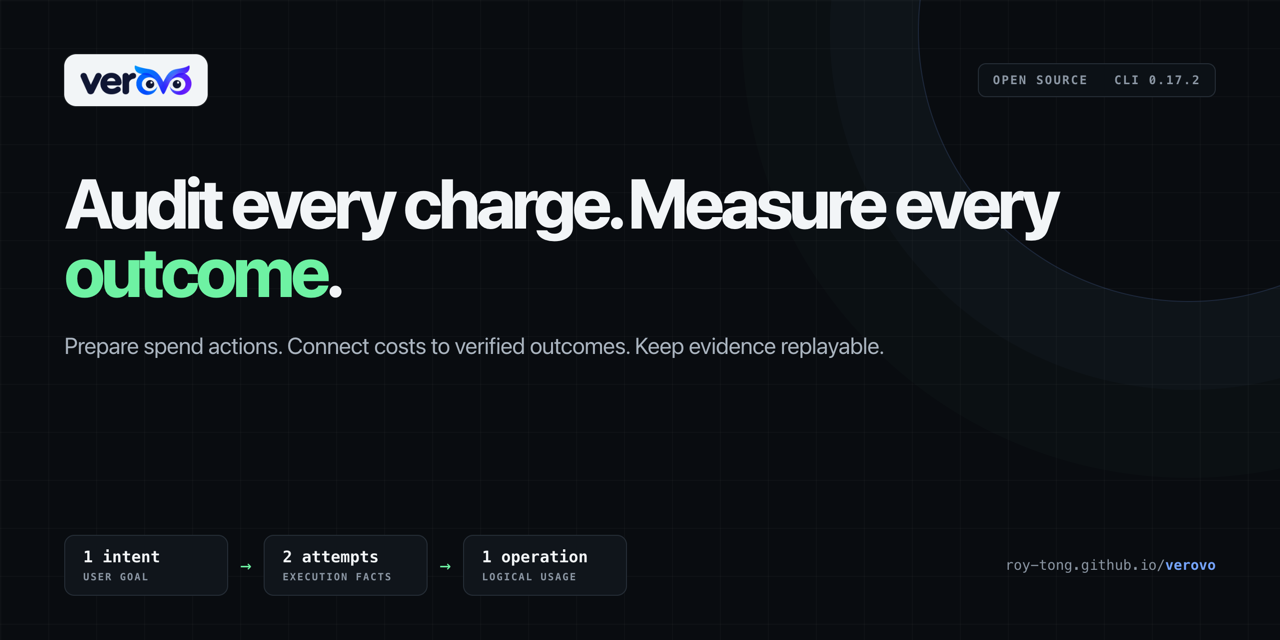
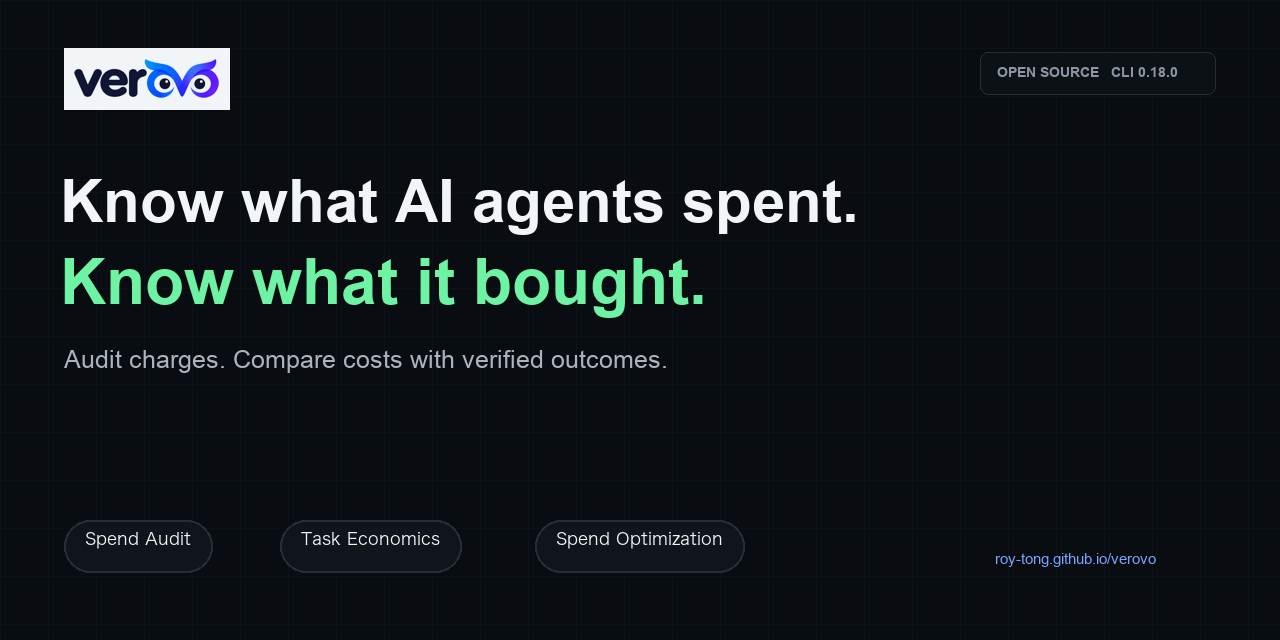
docs: align GTM with AI spend value

diff --git a/website/index.html b/website/index.html
@@ -3,25 +3,25 @@
 <head>
   <meta charset="UTF-8">
   <meta name="viewport" content="width=device-width, initial-scale=1.0">
-  <title>Verovo | Independent measurement and audit for AI agents</title>
-  <meta name="description" content="Audit agent and tool charges, connect spending to verified task outcomes, and decide what to pay, fix or compare next with Verovo.">
+  <title>Verovo | AI agent spend audit and value measurement</title>
+  <meta name="description" content="Know what AI agents spent, whether the bill is right, and whether it was worth it. Verovo tracks spend, audits charges, and compares costs with verified outcomes.">
   <link rel="icon" type="image/svg+xml" href="./assets/favicon.svg">
   <link rel="canonical" href="https://roy-tong.github.io/Verovo/">
   <meta name="theme-color" content="#090C10">
   <meta property="og:type" content="website">
   <meta property="og:site_name" content="Verovo">
-  <meta property="og:title" content="Verovo | Independent measurement and audit for AI agents">
-  <meta property="og:description" content="Audit every charge. Measure every outcome. Turn one agent billing period into clear buyer actions and task economics.">
+  <meta property="og:title" content="Verovo | AI agent spend audit and value measurement">
+  <meta property="og:description" content="Know what AI agents spent, whether the bill is right, and whether the spend was worth it.">
   <meta property="og:url" content="https://roy-tong.github.io/Verovo/">
   <meta property="og:image" content="https://roy-tong.github.io/Verovo/assets/social-preview.png">
   <meta property="og:image:width" content="1280">
   <meta property="og:image:height" content="640">
-  <meta property="og:image:alt" content="Verovo: independent measurement and audit for AI agents">
+  <meta property="og:image:alt" content="Verovo: AI agent spend audit and value measurement">
   <meta name="twitter:card" content="summary_large_image">
-  <meta name="twitter:title" content="Verovo | Independent measurement and audit for AI agents">
-  <meta name="twitter:description" content="Audit agent and tool charges, connect spending to verified outcomes, and prepare clear buyer actions.">
+  <meta name="twitter:title" content="Verovo | AI agent spend audit and value measurement">
+  <meta name="twitter:description" content="Track spend, audit charges independently, and compare costs with verified task outcomes.">
   <meta name="twitter:image" content="https://roy-tong.github.io/Verovo/assets/social-preview.png">
-  <meta name="twitter:image:alt" content="Verovo: independent measurement and audit for AI agents">
+  <meta name="twitter:image:alt" content="Verovo: AI agent spend audit and value measurement">
   <link rel="preconnect" href="https://fonts.googleapis.com">
   <link rel="preconnect" href="https://fonts.gstatic.com" crossorigin>
   <link href="https://fonts.googleapis.com/css2?family=IBM+Plex+Mono:wght@400;500;600&family=Inter:wght@400;500;600;700;800&display=swap" rel="stylesheet">
@@ -34,7 +34,7 @@
     "@type": "SoftwareApplication",
     "name": "Verovo",
     "applicationCategory": "BusinessApplication",
-    "description": "Verovo is the independent measurement and audit layer for AI agents. It reviews charges, prepares line-level spend actions and connects task costs to verified outcomes.",
+    "description": "Verovo helps teams track AI spend, audit charges independently, prepare line-level buyer actions, and compare task costs with verified outcomes.",
     "url": "https://roy-tong.github.io/Verovo/",
     "codeRepository": "https://github.com/roy-tong/Verovo",
     "license": "https://opensource.org/license/mit",
@@ -72,9 +72,9 @@
     <section class="hero" aria-label="Introduction">
       <div class="hero-grid">
         <div class="hero-copy">
-          <p class="eyebrow reveal">THE INDEPENDENT MEASUREMENT AND AUDIT LAYER FOR AI AGENTS</p>
-          <h1 class="reveal d1">Audit every charge. Measure every <em>outcome.</em></h1>
-          <p class="lede reveal d2">Verovo connects agent and tool charges to verified task outcomes. See which lines can move forward, which need evidence or review, and which supplier or workflow is worth choosing next.</p>
+          <p class="eyebrow reveal">INDEPENDENT AI SPEND AUDIT AND VALUE MEASUREMENT</p>
+          <h1 class="reveal d1">Audit AI spend.<br>Know its <em>value.</em></h1>
+          <p class="lede reveal d2">Know what your AI agents spent, whether the bill is right, and whether the spend was worth it. Verovo tracks costs, audits charges independently, prepares line-level buyer actions, and compares task costs with verified outcomes.</p>
           <div class="hero-actions reveal d4">
             <a class="btn btn-primary" href="first-look.html#contact">Bring a supplier period</a>
             <a class="btn btn-ghost" href="examples/buyer-review.html">See a review</a>
@@ -124,11 +124,12 @@
     </div></section>
 
     <section class="section section-panel" id="answers" aria-label="Three business answers"><div class="wrap">
-      <h2 class="reveal">Three answers every AI buyer needs.</h2>
+      <h2 class="reveal">Four answers turn AI spend into a buyer decision.</h2>
       <div class="who-grid">
-        <div class="who-card reveal"><span class="who-k">What should happen to this charge?</span><p>Turn an existing Audit Case into ready, evidence, review, unreviewed, partially settled and settled actions. Only versioned reviews bound to normalized source content and contract versions become ready for payment.</p><span class="who-v">Spend action list</span></div>
-        <div class="who-card reveal"><span class="who-k">Was the work delivered?</span><p>Evaluate observed work against your acceptance criteria, with the records behind each conclusion ready to inspect.</p><span class="who-v">Delivery review</span></div>
-        <div class="who-card reveal"><span class="who-k">Which option is worth choosing?</span><p>Connect direct and allocated costs with verified outcomes to compare suppliers, workflows and delivery choices.</p><span class="who-v">Task economics</span></div>
+        <div class="who-card reveal"><span class="who-k">Where is money going?</span><p>Connect usage and cost records to tasks and cost drivers. Real-time observation and anomaly detection are the next build focus.</p><span class="who-v">Spend Monitoring</span></div>
+        <div class="who-card reveal"><span class="who-k">Should spending continue?</span><p>Prepare disposition and control recommendations. Budget and hold integrations require an authorized external execution system.</p><span class="who-v">Spend Control</span></div>
+        <div class="who-card reveal"><span class="who-k">Was the charge correct?</span><p>Recalculate supported charges and turn findings into line-level evidence, review, payment-processing and settlement actions.</p><span class="who-v">Spend Audit</span></div>
+        <div class="who-card reveal"><span class="who-k">Was the spend worth it?</span><p>Compare task costs and verified outcomes today; use tool removal, replacement and replay experiments to study incremental contribution next.</p><span class="who-v">Spend Optimization</span></div>
       </div>
       <div class="trial-actions"><a class="btn btn-primary" href="examples/buyer-review.html">Open the buyer review</a><a class="btn btn-ghost" href="first-look.html#contact">Bring your supplier period</a></div>
     </div></section>
@@ -158,7 +159,7 @@ python3 healthcheck/verovo spend-actions --case examples/audit-golden-case/audit
       <div class="terminal" style="margin-top:30px"><div class="terminal-body"><pre style="white-space:pre-wrap">python3 healthcheck/verovo intake --bundle examples/period-bundle --out ./period-out
 python3 healthcheck/verovo economics --case ./period-out/case.json --markdown economics.md
 python3 healthcheck/verovo drivers --case ./period-out/case.json</pre></div></div>
-      <p><a href="https://github.com/roy-tong/Verovo/blob/main/docs/task-economics.md">Explore task economics →</a></p>
+      <p><a href="https://github.com/roy-tong/Verovo/blob/main/docs/task-economics.md">Explore task economics →</a> · <a href="blog/ai-spend-optimization.html">Read the AI spend optimization method →</a></p>
     </div></section>
 
     <section class="section" id="evidence" aria-label="Public evidence"><div class="wrap">
@@ -204,7 +205,7 @@ python3 healthcheck/verovo drivers --case ./period-out/case.json</pre></div></di
   <footer class="footer" aria-label="Footer">
     <div class="wrap">
       <div class="footer-grid">
-        <div class="footer-brand"><span class="brand"><span class="brand-plate"><img class="brand-mark" src="./assets/verovo-mark.png" alt="" width="42" height="23"></span>Verovo<span class="brand-cursor" aria-hidden="true">_</span></span><p>Make every dollar spent on AI services make sense.</p></div>
+        <div class="footer-brand"><span class="brand"><span class="brand-plate"><img class="brand-mark" src="./assets/verovo-mark.png" alt="" width="42" height="23"></span>Verovo<span class="brand-cursor" aria-hidden="true">_</span></span><p>Know what AI agents spent, whether the bill is right, and whether it was worth it.</p></div>
         <nav class="footer-col" aria-label="Review"><span class="footer-k">Review</span><a href="first-look.html">Buyer review</a><a href="examples/replayable-period.html">Replay a period</a><a href="tools.html">Tool bill coverage</a><a href="claims.html">Claims and reproductions</a></nav>
         <nav class="footer-col" aria-label="Project"><span class="footer-k">Project</span><a href="https://github.com/roy-tong/Verovo">GitHub</a><a href="releases.html">Release notes</a><a href="https://github.com/roy-tong/Verovo/blob/main/ROADMAP.md">Roadmap</a><a href="faq.html">FAQ · 常见问题</a></nav>
         <nav class="footer-col" aria-label="Community"><span class="footer-k">Community</span><a href="https://discord.gg/UqrM8MCXb">Discord</a><a href="https://x.com/elliwoodtong">X / Twitter</a><a href="https://roy-tong.github.io/Askovo/">Askovo</a><a href="https://roy-tong.github.io/Growovo/">Growovo</a></nav>

diff --git a/website/blog/ai-spend-optimization.html b/website/blog/ai-spend-optimization.html
@@ -1,0 +1,82 @@
+<!DOCTYPE html>
+<html lang="en">
+<head>
+  <meta charset="UTF-8">
+  <meta name="viewport" content="width=device-width, initial-scale=1">
+  <title>How to optimize AI agent spend without confusing cost with value — Verovo</title>
+  <meta name="description" content="A practical AI spend optimization method: monitor cost, audit charges, compare cost per verified success, and use tool removal or replacement experiments before declaring a winner.">
+  <link rel="icon" type="image/svg+xml" href="../assets/favicon.svg">
+  <link rel="canonical" href="https://roy-tong.github.io/Verovo/blog/ai-spend-optimization.html">
+  <meta property="og:type" content="article">
+  <meta property="og:site_name" content="Verovo">
+  <meta property="og:title" content="How to optimize AI agent spend without confusing cost with value">
+  <meta property="og:description" content="From cost monitoring and independent audit to tool replacement experiments and incremental value.">
+  <meta property="og:url" content="https://roy-tong.github.io/Verovo/blog/ai-spend-optimization.html">
+  <link rel="stylesheet" href="../styles.css">
+  <script type="application/ld+json">{"@context":"https://schema.org","@type":"TechArticle","headline":"How to optimize AI agent spend without confusing cost with value","description":"A practical method for AI spend monitoring, audit, task economics and tool replacement experiments.","datePublished":"2026-11-24","dateModified":"2026-11-24","author":{"@type":"Person","name":"Roy Tong","url":"https://github.com/roy-tong"},"publisher":{"@type":"Organization","name":"Verovo"},"mainEntityOfPage":"https://roy-tong.github.io/Verovo/blog/ai-spend-optimization.html"}</script>
+  <style>
+    :root{--panel:#10151b;--text:#f2f5f7;--muted:#aab4bf;--line:#252d36;--accent:#76a5ff;--ok:#6ef2a3;--mono:"IBM Plex Mono",ui-monospace,SFMono-Regular,Menlo,monospace}
+    *{box-sizing:border-box}body{background:#090c10;color:var(--text);font:16px/1.75 Inter,system-ui,-apple-system,"Segoe UI",sans-serif;margin:0}.post{max-width:860px;margin:0 auto;padding:64px 24px 80px}a{color:var(--accent)}.post-back,.post-k,.post-meta{font-family:var(--mono)}.post-back{font-size:12px;letter-spacing:.08em}.post-k{color:var(--ok);font-size:12px;letter-spacing:.12em;text-transform:uppercase;margin:28px 0 12px}.post h1{font-size:2.5rem;line-height:1.18;letter-spacing:-.03em;margin:0 0 16px}.post-meta{font-size:13px;color:var(--muted);margin-bottom:38px}.post h2{font-size:1.5rem;line-height:1.3;margin:42px 0 14px}.post p,.post li{color:var(--text)}.post ul,.post ol{padding-left:1.4rem}.post li{margin-bottom:8px}.post table{width:100%;border-collapse:collapse;margin:0 0 22px;font-size:.93rem}.post th,.post td{text-align:left;padding:10px 12px;border-bottom:1px solid var(--line);vertical-align:top}.post th{background:var(--panel);color:var(--muted)}.note{border-left:3px solid var(--accent);background:rgba(118,165,255,.08);padding:12px 16px;margin:0 0 20px}.post pre{background:var(--panel);border:1px solid var(--line);border-radius:8px;padding:16px;overflow:auto}.post code{font-family:var(--mono);color:var(--ok)}.post-footer{border-top:1px solid var(--line);margin-top:44px;padding-top:20px;color:var(--muted)}@media(max-width:640px){.post{padding:36px 18px 60px}.post h1{font-size:2rem}.post table{font-size:.84rem}.post th,.post td{padding:8px}}
+  </style>
+</head>
+<body>
+<main class="post" id="main">
+  <a class="post-back" href="../">← VEROVO</a>
+  <p class="post-k">Method · AI spend optimization · 24 November 2026</p>
+  <h1>How to optimize AI agent spend without confusing cost with value</h1>
+  <p class="post-meta">Roy Tong · Monitoring, audit, task economics and incrementality</p>
+
+  <p><strong>AI spend optimization means choosing the agent, tool or workflow that delivers an accepted outcome at a defensible full cost.</strong> A lower token bill is not enough. The comparison must include failed attempts, retries, tool charges, shared infrastructure, human review and the quality of the delivered result.</p>
+
+  <h2>Why are cost monitoring and bill audit not enough?</h2>
+  <p>Monitoring tells you where money is going. Audit tells you whether supplier charges follow the applicable rules. Both are necessary, but a perfectly correct bill can still pay for a failed task, and a cheap workflow can become expensive after retries and human rework.</p>
+  <div class="note"><strong>Four different questions:</strong> Where is money going? Should spending continue? Was the charge correct? Was the spend worth repeating? Keep Monitoring, Control, Audit and Optimization as separate conclusions.</div>
+
+  <h2>What should an AI value measurement system record?</h2>
+  <table>
+    <thead><tr><th>Level</th><th>Measurement</th><th>Decision it supports</th></tr></thead>
+    <tbody>
+      <tr><td>L1 · Behavior</td><td>Calls, attempts, retries, failures and delegation</td><td>See what the agent actually did</td></tr>
+      <tr><td>L2 · Cost</td><td>Direct, allocated, retry, failed-run and human-review cost</td><td>See the full amount required to run the work</td></tr>
+      <tr><td>L3 · Outcome</td><td>Task completion and buyer acceptance against explicit criteria</td><td>See whether the work was delivered</td></tr>
+      <tr><td>L4 · Contribution</td><td>Incremental effect of a tool or workflow on accepted outcomes</td><td>Decide whether the component is worth using</td></tr>
+      <tr><td>L5 · Benchmark</td><td>Comparable cross-tool, agent and task-family measures</td><td>Support procurement and resource allocation</td></tr>
+    </tbody>
+  </table>
+  <p>Verovo currently focuses on L1–L3 and task economics. L4 needs controlled comparisons. L5 needs enough independent, comparable observations; a participating network is not a market-share sample.</p>
+
+  <h2>How do you calculate cost per verified success?</h2>
+  <p>Start with one task family and one acceptance definition. Add every eligible cost for the attempts in the comparison window, then divide by the number of outcomes that actually passed the buyer’s criteria:</p>
+  <pre><code>Cost per Verified Success =
+  (model + tools + infrastructure + failed attempts + retries + allocated human review)
+  ÷ verified accepted outcomes</code></pre>
+  <p>Keep missing allocation and outcome coverage visible. Cost per Verified Success is an economic ratio, not proof of incremental business value or ROI. If verified monetary value is absent, ROI remains unknown.</p>
+
+  <h2>How can you test whether one tool is worth its cost?</h2>
+  <ol>
+    <li><strong>Preregister the comparison.</strong> Fix the task family, eligible inputs, acceptance tests, cost window and stop conditions before looking at the winner.</li>
+    <li><strong>Run a baseline.</strong> Record the existing agent and tool chain, including failed work and human intervention.</li>
+    <li><strong>Remove, replace or replay.</strong> Compare the baseline with a version without the tool, with another tool, or with a replay of the same eligible tasks. Avoid comparing unrelated tasks and calling the difference a tool effect.</li>
+    <li><strong>Compare full cost and accepted outcomes together.</strong> Report sample size, variance, coverage and practical differences. Do not rank from call volume, cost share or last-touch attribution.</li>
+    <li><strong>Keep inconclusive results.</strong> Small samples, crossing confidence intervals or changing task mixtures can prevent a defensible winner.</li>
+  </ol>
+  <p>A useful experiment can show that an expensive tool reduces enough retries to lower full task cost. It can also show that a cheap tool is adequate for one task family but not another. Neither conclusion should be generalized beyond the observed conditions.</p>
+
+  <h2>Where does Verovo fit today?</h2>
+  <p>Verovo independently recalculates supported charges, prepares line-level buyer actions, connects direct and allocated costs to verified outcomes, and supports scenario comparisons. It does not execute payments or replace an agent gateway. Real-time budget enforcement and hold actions require an authorized external execution system; incremental tool contribution needs the comparison method above.</p>
+  <pre><code>pipx install verovo
+verovo review --sample --html buyer-review.html --json buyer-review.json
+
+# From a source checkout:
+python3 healthcheck/verovo economics \
+  --case examples/task-economics.json \
+  --json economics.json --markdown economics.md</code></pre>
+  <p>The examples are synthetic and local. They demonstrate the records and calculations, not customer savings or causal tool value.</p>
+
+  <footer class="post-footer">
+    <p>Start with <a href="../examples/replayable-period.html">one replayable billing period</a>, then bring one supplier, one period and one procurement decision to the <a href="../first-look.html">buyer task page</a>.</p>
+    <p><a href="./">Technical blog</a> · <a href="https://github.com/roy-tong/Verovo">Source repository</a> · <a href="../llms.txt">llms.txt</a></p>
+  </footer>
+</main>
+</body>
+</html>

diff --git a/website/blog/index.html b/website/blog/index.html
@@ -49,6 +49,11 @@ th{background:var(--panel);color:var(--muted)}.note{border-left:3px solid var(--
   <h2><a href="06-verovo-a-vendor-export-is-not-buyer-evidence.html">Verovo: a vendor export is not buyer evidence</a></h2>
   <p>Control domains, procedural provenance checks, outcome observer grades, canonical completion axes, and evidence-only handoffs.</p>
   <a class="read" href="06-verovo-a-vendor-export-is-not-buyer-evidence.html">Read the article →</a>
+</article><article class="card">
+  <p class="post-k">Verovo · 8 min read</p>
+  <h2><a href="ai-spend-optimization.html">How to optimize AI agent spend without confusing cost with value</a></h2>
+  <p>Monitoring, independent audit, cost per verified success, tool replacement experiments and the limits of causal contribution.</p>
+  <a class="read" href="ai-spend-optimization.html">Read the article →</a>
 </article></div>
   <footer class="post-footer blog-links">
     <p><strong>More OVO engineering blogs</strong></p>

diff --git a/website/assets/social-preview.html b/website/assets/social-preview.html
@@ -131,12 +131,12 @@
   <div class="canvas">
     <header class="top">
       <div class="brand"><span class="plate"><img src="verovo-logo.png" alt="Verovo"></span></div>
-      <div class="status">Open source&nbsp;&nbsp; CLI 0.17.2</div>
+      <div class="status">Open source&nbsp;&nbsp; CLI 0.18.0</div>
     </header>
 
     <main>
-      <h1>Audit every charge. Measure every <em>outcome</em>.</h1>
-      <p class="sub">Prepare spend actions. Connect costs to verified outcomes. Keep evidence replayable.</p>
+      <h1>Know what AI agents spent. Know what it <em>bought</em>.</h1>
+      <p class="sub">Audit charges. Compare costs with verified outcomes. Optimize the next task.</p>
     </main>
 
     <footer class="bottom">

diff --git a/scripts/seo_check.py b/scripts/seo_check.py
@@ -43,7 +43,7 @@ SITEMAP_EXEMPT = {"404.html"}
 ALLOW_NOINDEX: set[str] = {"assets/social-preview.html"}
 # Deployment acceptance: key pages must contain these strings once live.
 REQUIRED_MARKERS: dict[str, tuple[str, ...]] = {
-    "index.html": ("Make every dollar", "Offline synthetic Audit Case"),
+    "index.html": ("Audit AI spend", "Offline synthetic Audit Case"),
     "blog/ai-invoice-reconciliation.html": ("reconcile", "UNPROVABLE"),
     "blog/resolution-bill-check.html": ("resolutions",),
     "faq.html": ("解决量",),

diff --git a/README.md b/README.md
@@ -2,9 +2,9 @@
 
 <img src="assets/verovo-logo-card.png" alt="Verovo" width="300">
 
-**The independent measurement and audit layer for AI agents.**
+**Know what your AI agents spent, whether the bill is right, and whether the spend was worth it.**
 
-**Make every dollar spent on AI services make sense.** Verovo helps teams audit agent and tool charges, connect spending to verified task outcomes, and decide what to pay, fix or compare next.
+Verovo helps teams track AI spend, audit charges independently, and compare costs with verified task outcomes. Finance, operations and engineering can decide what to pay, hold, fix or choose next.
 
 [Website](https://roy-tong.github.io/Verovo/) · [中文](README.zh-CN.md) · [Buyer guide](docs/buyer-review.md) · [Replay example](https://roy-tong.github.io/Verovo/examples/replayable-period.html) · [Discord](https://discord.gg/UqrM8MCXb)
 
@@ -12,15 +12,18 @@
 [![PyPI](https://img.shields.io/pypi/v/verovo)](https://pypi.org/project/verovo/)
 [![License](https://img.shields.io/badge/License-MIT-blue)](LICENSE)
 
-## Audit every charge. Measure every outcome.
+## Track spend. Audit charges. Understand value.
 
-A total invoice cannot tell you which line needs evidence, whether a retry was worth it, or which tool should handle the next task. Verovo connects supplier rules, invoices, usage, delivery and buyer acceptance so finance, operations and engineering can answer three questions:
+A total invoice cannot tell you where money is going, which line needs evidence, whether a retry was worth it, or which tool should handle the next task. Verovo connects supplier rules, invoices, usage, delivery and buyer acceptance across four buyer questions:
 
-- **What should happen to this charge?** Recalculate supported bills and turn the findings into a line-level worklist: ready for payment, evidence required, review required, unreviewed, partially settled or settled. Clean recommendations are bound to normalized source content and contract versions; settlement is verified from applied credit evidence.
-- **Was the work delivered?** Check observed delivery against the buyer’s own acceptance criteria without treating a failed outcome as automatic proof of a billing error.
-- **Which option is worth choosing?** Connect direct and allocated task costs with verified outcomes, cost per verified success and explicit scenario comparisons.
+| Capability | Question | What Verovo provides |
+| --- | --- | --- |
+| Spend Monitoring | Where is money going? | Usage and cost records, task aggregation and cost drivers; real-time observation and anomaly detection are the next build focus |
+| Spend Control | Should spending continue? | Disposition and control recommendations today; budget and hold integrations require an authorized external execution system |
+| Spend Audit | Was the charge correct? | Independent recalculation, line-level actions, evidence supplements, revisions, review, signoff and period replay |
+| Spend Optimization | Was the spend worth it? | Task economics and scenario comparisons today; tool removal, replacement and replay experiments are the path to incremental contribution |
 
-Financial correctness, control (authorization), delivery and economic value remain separate conclusions. Missing evidence stays visible instead of becoming a zero or a pass.
+Financial correctness, control, delivery and economic value remain separate conclusions. Missing evidence stays visible instead of becoming a zero or a pass.
 
 ## From one billing period to a clear next move
 

diff --git a/README.zh-CN.md b/README.zh-CN.md
@@ -2,9 +2,9 @@
 
 <img src="assets/verovo-logo-card.png" alt="Verovo" width="300">
 
-**Agent 经济的独立计量与核验层。**
+**知道 Agent 花了多少、账单对不对、花得值不值。**
 
-**让 AI 服务的每一笔钱，都花得明白。** Verovo 帮助团队核验 Agent 和工具费用，把支出连接到已验收的任务结果，并决定下一笔该付款、补证、整改还是换方案。
+Verovo 帮企业跟踪 AI 支出、独立核验账单，并把成本连接到已验收任务结果，让财务、业务和工程决定下一笔该付款、挂起、整改还是换方案。
 
 [官网](https://roy-tong.github.io/Verovo/) · [English](README.md) · [核验指南](docs/buyer-review.md) · [账期重放](https://roy-tong.github.io/Verovo/examples/replayable-period.html) · [Discord](https://discord.gg/UqrM8MCXb)
 
@@ -12,15 +12,18 @@
 [![PyPI](https://img.shields.io/pypi/v/verovo)](https://pypi.org/project/verovo/)
 [![License](https://img.shields.io/badge/License-MIT-blue)](LICENSE)
 
-## 核验每笔费用，度量每项结果
+## 跟踪支出，核验账单，看清价值
 
-一张总账单回答不了哪一行要补证、一次重试是否值得，或下一项任务该用哪个工具。Verovo 把供应商规则、账单、用量、交付和买方验收连接起来，让财务、业务和工程回答三个问题：
+一张总账单回答不了钱正流向哪里、哪一行要补证、一次重试是否值得，或下一项任务该用哪个工具。Verovo 把供应商规则、账单、用量、交付和买方验收连接起来，回答四个问题：
 
-- **这笔费用接下来怎么处理？** 按适用规则复算支持的账单，再生成逐行工作清单：可进入付款处理、待补证、待复核、未复核、部分结清或已结清。可付款建议绑定规范化后的账单内容与合同版本，结清则根据已应用抵扣凭证独立核验。
-- **工作交付到位了吗？** 用买方自己的验收判据检查实际交付，不把交付失败自动等同于计费错误。
-- **下一单该选哪个方案？** 连接直接与分摊任务成本、已验证结果、每次验收成功成本和明确的情景比较。
+| 能力 | 核心问题 | Verovo 提供什么 |
+| --- | --- | --- |
+| Spend Monitoring | 钱花在哪里？ | 用量与成本记录、任务归集和成本驱动；实时观测与异常识别是下一建设重点 |
+| Spend Control | 是否继续花钱？ | 当前提供处置与控制建议；预算联动和 hold 需要已授权的外部执行系统 |
+| Spend Audit | 钱花得是否正确？ | 独立复算、逐行处置、补证、修订、复核、签核与账期重放 |
+| Spend Optimization | 钱花得是否值得？ | 当前支持任务经济性与情景比较；下一步用工具移除、替换和重放研究增量贡献 |
 
-财务正确性、控制（授权）、交付和经济价值始终是独立结论。缺失证据保持可见，不会变成零或通过。
+财务正确性、控制、交付和经济价值始终是独立结论。缺失证据保持可见，不会变成零或通过。
 
 ## 从一个账期，到清楚的下一步
 
